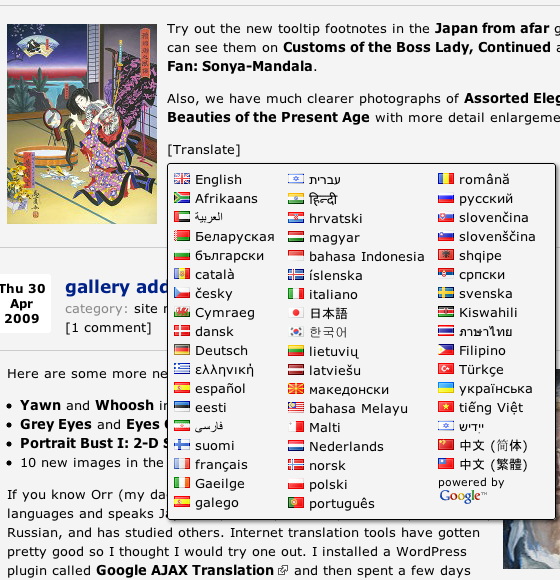
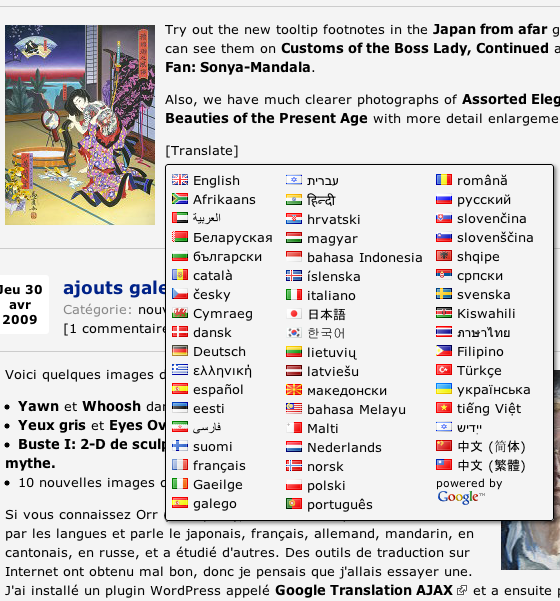
version 0.5.1
git-svn-id: https://plugins.svn.wordpress.org/google-ajax-translation/trunk@168586 b8457f37-d9ea-0310-8a92-e5e31aec5664

diff --git a/jquery.translate-1.4.1.min.js b/jquery.translate-1.4.1.min.js
@@ -33,7 +33,7 @@ f.translate.copyEvents(h,q.find("*"));l.html(q.contents())}else{l.html(s)}}}f.da
 if(arguments.length!==7){[].splice.call(r,1,0,this.elements[s])}this.each.apply(this,r);p.apply(this,r)};f.translate(m,j)})},each:function(){}});if(this.nodesContainingText){return this.nodesContainingText(k)}j.nodes=this;f.translate(f.map(this,function(m){return f(m).html()||f(m).val()}),j);return this};f.fn.translate.defaults=f.extend({},f.translate._defaults)})(jQuery);
 
 /*minified version of google-ajax-translation.js
- *2009-10-24
+ *2009-10-29
  */
 
-jQuery(function(){jQuery(".translate_block").show();var a=document.getElementById("translate_popup");if(a){document.body.appendChild(a)}});function google_translate(d,c,e){var a=document.getElementById((("comment"==c)?"div-":"")+c+"-"+e),b;if(!a&&"post"==c){a=document.getElementById("content_div-"+e)}if(!a&&"comment"==c){a=document.getElementById("comment-"+e)}if(a){b="#translate_loading_"+c+"-"+e;jQuery(a).translate(d,{fromOriginal:true,not:".translate_block",start:function(){jQuery(b).show()},complete:function(){jQuery(b).hide()},error:function(){jQuery(b).hide()}})}jQuery("#translate_popup").slideUp("fast")}function localize_languages(d,c){var e=jQuery("#translate_popup a").get(),a=[],b;for(b in e){a[b]=e[b].title}jQuery.translate(a,"en",d,{complete:function(){a=this.translation;for(b in e){e[b].title=a[b]}jQuery(c).data("localized",true)}})}function show_translate_popup(i,d,a){var h=document.getElementById("translate_popup"),c=jQuery(h),g=jQuery("#translate_button_"+d+"-"+a),f=Math.round(g.offset().left),e=Math.round(g.offset().top+g.outerHeight(true));if(h){if("none"==h.style.display||c.position().top!=e){h.style.display="none";c.css("left",f).css("top",e);c.slideDown("fast");var b=jQuery(window).width()+jQuery(window).scrollLeft()-c.offset().left-c.outerWidth(true);if(b<0){c.css("left",Math.max(0,c.offset().left+b))}jQuery("#translate_popup .languagelink").each(function(){jQuery(this).unbind("click").click(function(){google_translate(this.lang,d,a);return false})});if("en"!=i&&(!c.data("localized"))){localize_languages(i,h)}}else{c.slideUp("fast")}}};
+jQuery(function(){jQuery(".translate_block").show();var a=document.getElementById("translate_popup");if(a){document.body.appendChild(a)}});function google_translate(d,c,e){var a=document.getElementById((("comment"==c)?"div-":"")+c+"-"+e),b;if(!a&&"post"==c){a=document.getElementById("content_div-"+e)}if(!a&&"comment"==c){a=document.getElementById("comment-"+e)}if(a){b="#translate_loading_"+c+"-"+e;jQuery(a).translate(d,{fromOriginal:true,not:".translate_block",start:function(){jQuery(b).show()},complete:function(){jQuery(b).hide()},error:function(){jQuery(b).hide()}})}jQuery("#translate_popup").slideUp("fast")}function localize_languages(d,c){var e=jQuery("#translate_popup a").get(),a=[],b;for(b in e){a[b]=e[b].title}jQuery.translate(a,"en",d,{complete:function(){a=this.translation;for(b in e){e[b].title=a[b]}jQuery(c).data("localized",true)}})}function show_translate_popup(i,d,a){var h=document.getElementById("translate_popup"),c=jQuery(h),g=jQuery("#translate_button_"+d+"-"+a),f=Math.round(g.offset().left),e=Math.round(g.offset().top+g.outerHeight(true)),b;if(h){jQuery.translate.languageCodeMap.pt="pt-PT";if("none"==h.style.display||c.position().top!=e){h.style.display="none";c.css("left",f).css("top",e);c.slideDown("fast");b=jQuery(window).width()+jQuery(window).scrollLeft()-c.offset().left-c.outerWidth(true);if(b<0){c.css("left",Math.max(0,c.offset().left+b))}jQuery("#translate_popup .languagelink").each(function(){jQuery(this).unbind("click").click(function(){google_translate(this.lang,d,a);return false})});if("en"!=i&&(!c.data("localized"))){localize_languages(i,h)}}else{c.slideUp("fast")}}};

diff --git a/google-ajax-translation.js b/google-ajax-translation.js
@@ -1,6 +1,6 @@
 /**
  * Google AJAX Translation
- * 2009-10-24
+ * 2009-10-29
  */
 
 jQuery( function() {
@@ -54,14 +54,16 @@ function show_translate_popup( browser_lang, type, id ) {
 		jQ_popup_id = jQuery( popup_id ),
 		jQ_button_id = jQuery( '#translate_button_' + type + '-' + id ),
 		buttonleft = Math.round( jQ_button_id.offset().left ),
-		buttonbottom = Math.round( jQ_button_id.offset().top + jQ_button_id.outerHeight(true) );
+		buttonbottom = Math.round( jQ_button_id.offset().top + jQ_button_id.outerHeight(true) ),
+		rightedge_diff;
 	if ( popup_id ) {
+		jQuery.translate.languageCodeMap['pt'] = 'pt-PT'; // automatically convert 'pt' to 'pt-PT' in the jquery translate plugin
 		if ( 'none' == popup_id.style.display || jQ_popup_id.position().top != buttonbottom ) { // check for hidden popup or incorrect placement
 			popup_id.style.display = 'none';
 			jQ_popup_id.css( 'left', buttonleft ).css( 'top', buttonbottom ); // move popup to correct position
 			jQ_popup_id.slideDown( 'fast' );
 			// move popup to the left if right edge is outside of window
-			var rightedge_diff = jQuery(window).width() + jQuery(window).scrollLeft() - jQ_popup_id.offset().left - jQ_popup_id.outerWidth(true);
+			rightedge_diff = jQuery(window).width() + jQuery(window).scrollLeft() - jQ_popup_id.offset().left - jQ_popup_id.outerWidth(true);
 			if ( rightedge_diff < 0 ) {
 				jQ_popup_id.css( 'left', Math.max( 0, jQ_popup_id.offset().left + rightedge_diff ) );
 			}

diff --git a/ajaxtranslation.php b/ajaxtranslation.php
@@ -4,13 +4,12 @@ Plugin Name: Google AJAX Translation
 Plugin URI: http://wordpress.org/extend/plugins/google-ajax-translation/
 Description: Add <a href="http://code.google.com/apis/ajaxlanguage/">Google AJAX Translation</a> to your blog. This plugin allows your blog readers to translate your blog posts or comments into other languages. <a href="options-general.php?page=ajaxtranslation.php">[Settings]</a>
 Author: Libin Pan, Michael Klein, and Nick Marshall
-Version: 0.5.0
-Stable tag: 0.5.0
+Version: 0.5.1
+Stable tag: 0.5.1
 Author URI: http://libinpan.com/
 	
 TODO:
 	add widget?
-	put options into array
 
 This program is free software; you can redistribute it and/or modify it under the terms of the GNU General Public License as published by the Free Software Foundation, version 2.
 
@@ -21,7 +20,7 @@ if (!class_exists('GoogleTranslation')) {
 	class GoogleTranslation {
 
 		var $optionPrefix = 'google_translation_';
-		var $version      = '0.5.0';
+		var $version      = '0.5.1';
 		var $pluginUrl    = 'http://wordpress.org/extend/plugins/google-ajax-translation/';
 		var $authorUrl    = 'http://blog.libinpan.com/2008/08/04/google-ajax-translation-wordpress-plugin/';
 
@@ -298,7 +297,7 @@ if (!class_exists('GoogleTranslation')) {
 			} else {
 				wp_enqueue_style( 'google-ajax-translation' );
 				wp_enqueue_script( 'jquery-translate' );
-				//wp_enqueue_script( 'google-ajax-translation-unminified', $this->pluginRoot . 'google-ajax-translation.js', array('jquery-translate'), '20091024', true ); // Minified version is appended to jquery.translate-1.4.1.min.js (Leave this here for debugging.)
+				//wp_enqueue_script( 'google-ajax-translation-unminified', $this->pluginRoot . 'google-ajax-translation.js', array('jquery-translate'), '20091029', true ); // Minified version is appended to jquery.translate-1.4.1.min.js (Leave this here for debugging.)
 				if ( $this -> options['postEnable'] || $this -> options['pageEnable'] ) {
 					add_filter( 'the_content', array( &$this, 'processContent' ), 50 );
 				}
